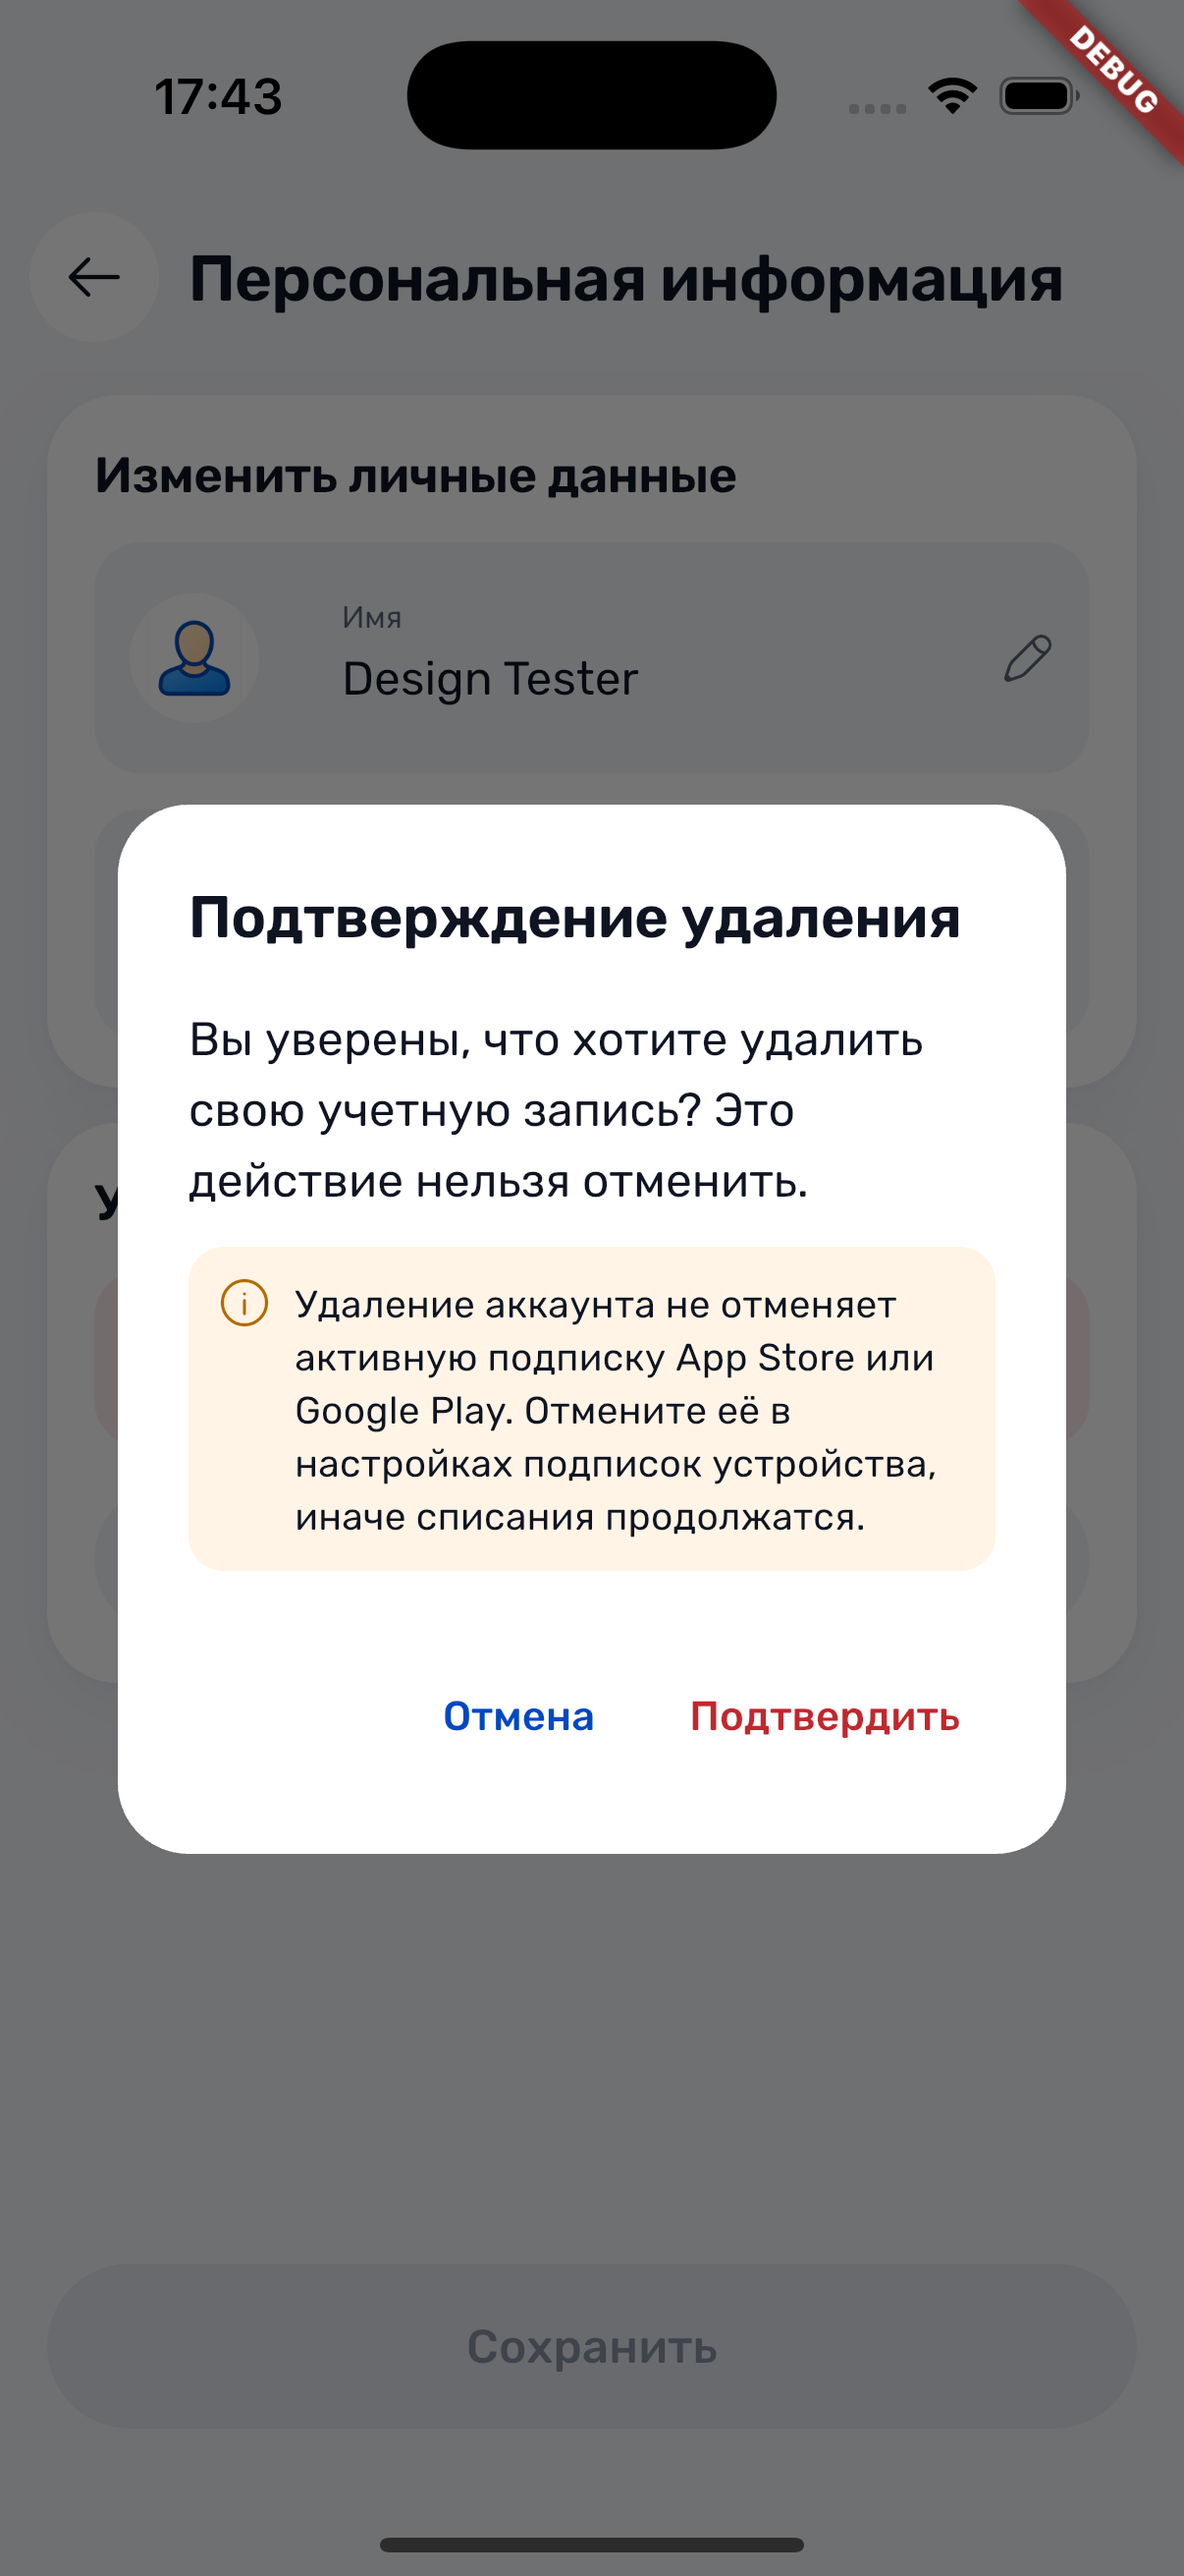
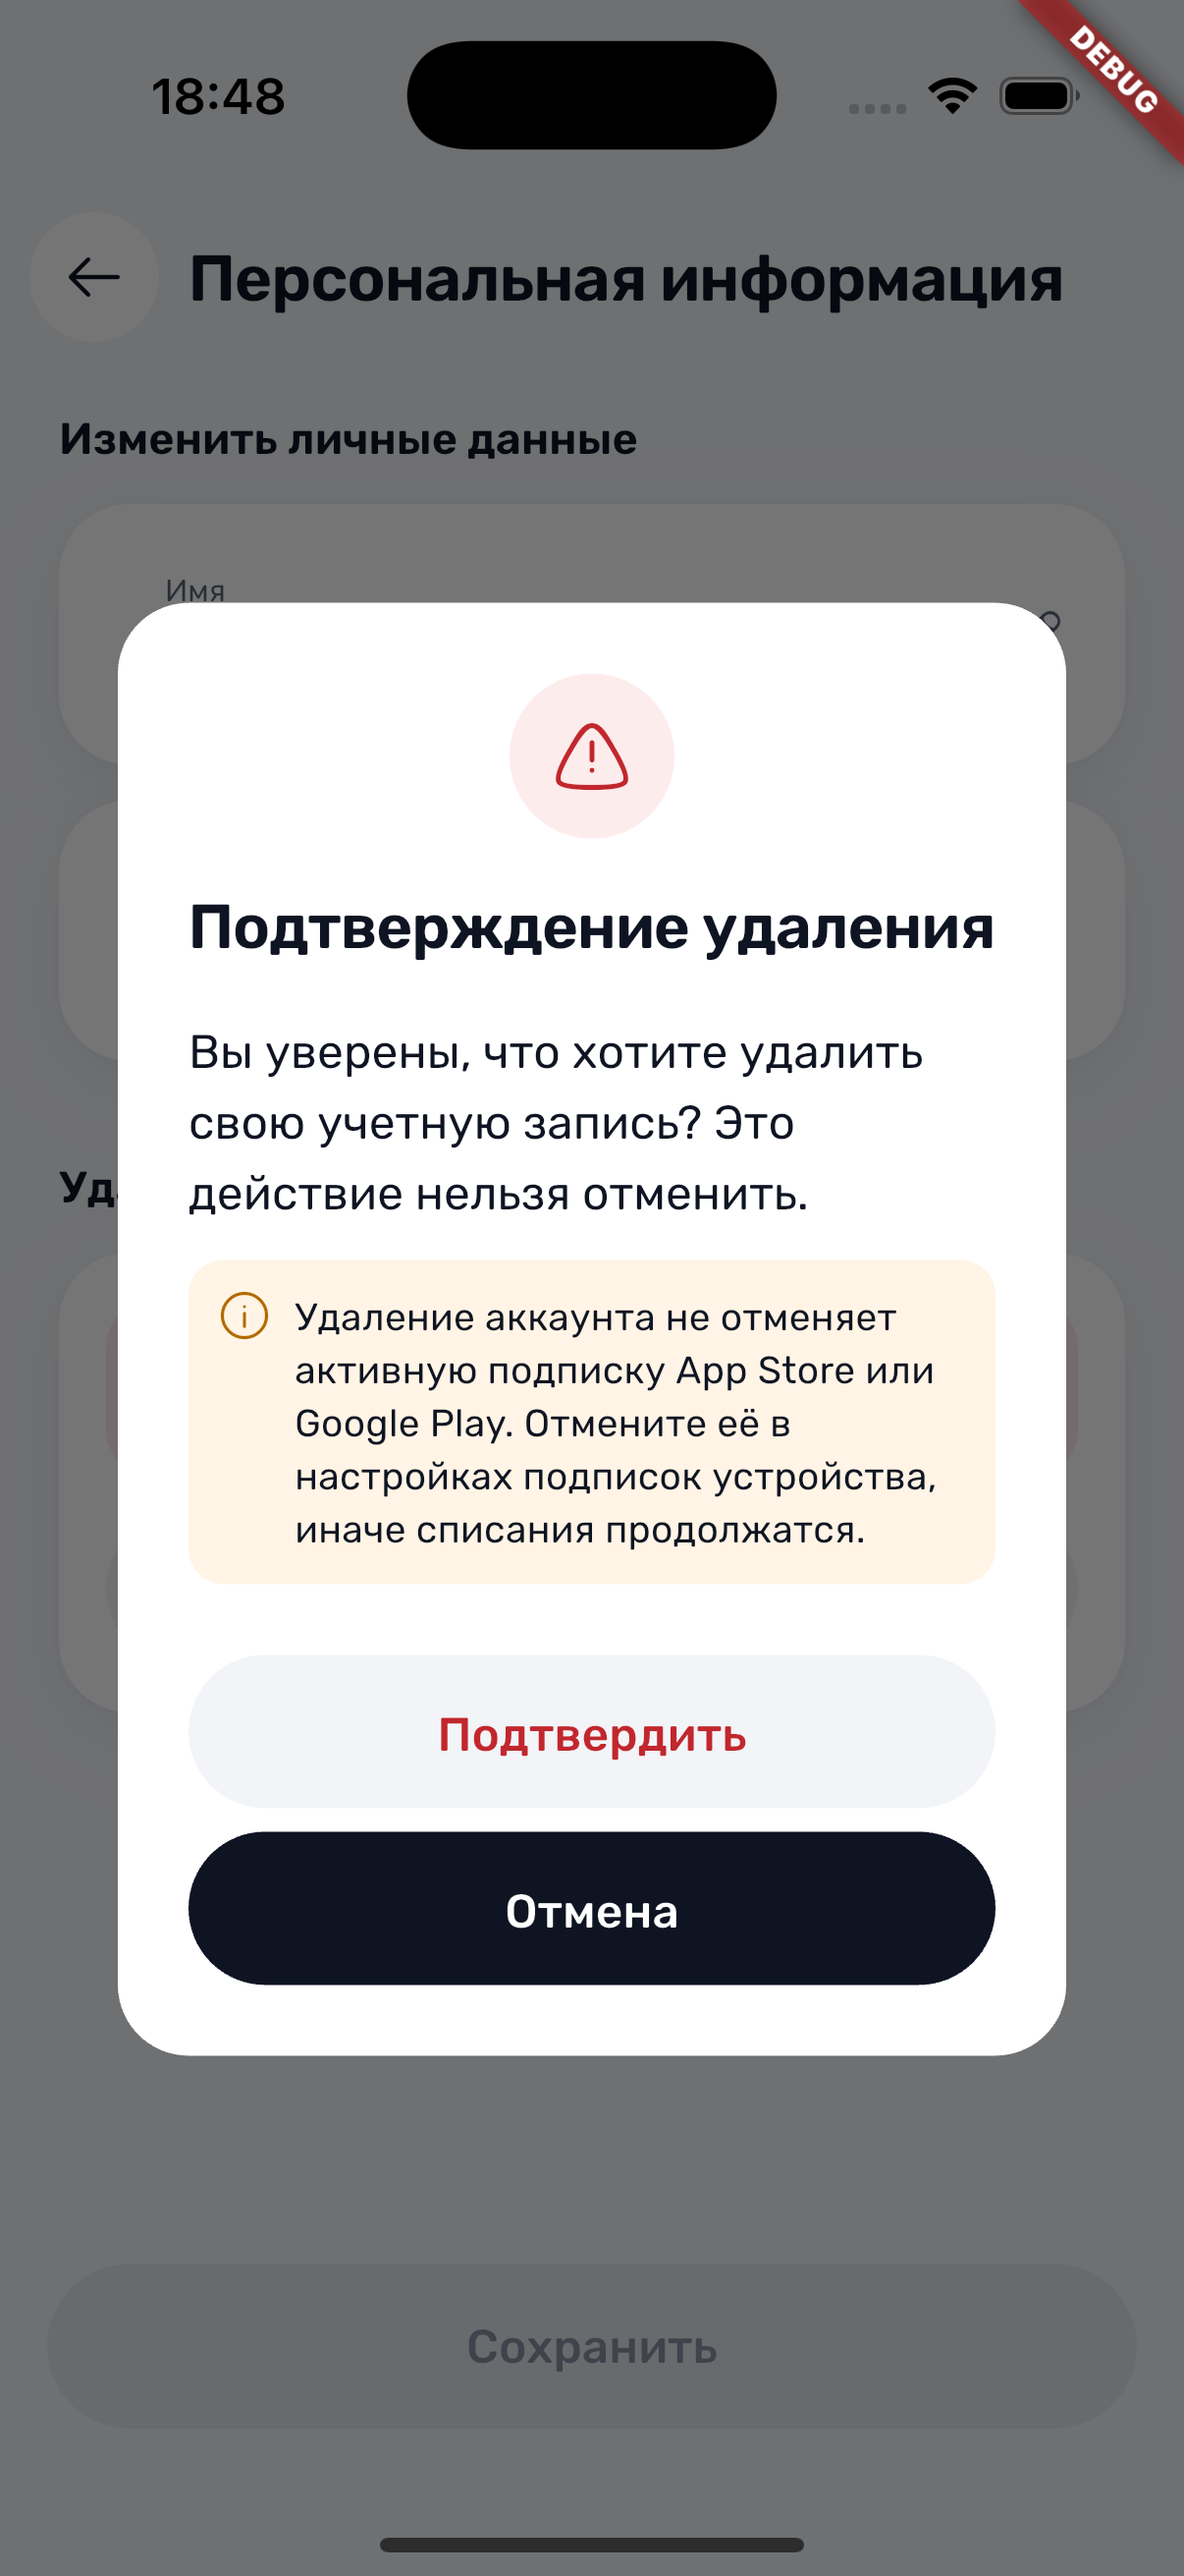
design: delete-account dialog in the Bento look
- A red disc with ⚠ above a one-line title (scales down, no wrap), the
  body, and the store-subscription warning (risk #14) unchanged.
- Two full-width pills stacked: «Подтвердить» a field pill with a red
  label, «Отмена» the dark ink pill — the safe way out is the strong one.
- Both onPressed handlers unchanged; the delete flow is byte-identical.

Analyzer: 0 errors, 158 warnings (none new). Tests: 180 pass.

diff --git a/lib/screens/personal_info_screen.dart b/lib/screens/personal_info_screen.dart
@@ -499,7 +499,39 @@ class _PersonalInfoScreenState extends State<PersonalInfoScreen> {
     showDialog(
       context: context,
       builder: (context) => AlertDialog(
-        title: Text(_translate('delete_confirmation_title', languageProvider)),
+        // Bento (2026-09-26): a red disc says "irreversible" before the text
+        // does; the actions are two full-width pills — the destructive one a
+        // field pill with a red label, the safe way out the dark ink pill.
+        icon: Container(
+          width: 56,
+          height: 56,
+          decoration: const BoxDecoration(
+            color: AppColors.stopSurface,
+            shape: BoxShape.circle,
+          ),
+          alignment: Alignment.center,
+          child: const Icon(SolarIcons.dangerTriangleLinear, color: AppColors.stop, size: 28),
+        ),
+        // One line; a long translation shrinks rather than wraps.
+        title: FittedBox(
+          fit: BoxFit.scaleDown,
+          child: Text(
+          _translate('delete_confirmation_title', languageProvider),
+          maxLines: 1,
+          style: AppTypography.title.copyWith(
+            fontSize: 22,
+            height: 28 / 22,
+            color: AppColors.ink,
+            fontVariations: const [FontVariation('wght', 600)],
+          ),
+        ),
+        ),
+        actionsPadding: const EdgeInsets.fromLTRB(
+          AppSpacing.x6,
+          0,
+          AppSpacing.x6,
+          AppSpacing.x6,
+        ),
         // Risk #14 — deleting the account does NOT cancel an App Store or
         // Google Play subscription; only the store can do that. Saying nothing
         // meant people kept being charged for an account that no longer
@@ -540,13 +572,20 @@ class _PersonalInfoScreenState extends State<PersonalInfoScreen> {
           ],
         ),
         actions: [
+          Column(
+            crossAxisAlignment: CrossAxisAlignment.stretch,
+            children: [
           TextButton(
-            onPressed: () {
-              Navigator.pop(context); // Close dialog
-            },
-            child: Text(_translate('cancel', languageProvider)),
-          ),
-          TextButton(
+            style: TextButton.styleFrom(
+              backgroundColor: AppColors.field,
+              foregroundColor: AppColors.stop,
+              minimumSize: const Size.fromHeight(52),
+              shape: const StadiumBorder(),
+              textStyle: AppTypography.label.copyWith(
+                fontSize: 16,
+                fontVariations: const [FontVariation('wght', 500)],
+              ),
+            ),
             onPressed: () async {
               Navigator.pop(context); // Close dialog
               
@@ -595,8 +634,26 @@ class _PersonalInfoScreenState extends State<PersonalInfoScreen> {
             },
             child: Text(
               _translate('confirm', languageProvider),
-              style: TextStyle(color: AppColors.stop),
             ),
+          ),
+          const SizedBox(height: AppSpacing.x2),
+          FilledButton(
+            style: FilledButton.styleFrom(
+              backgroundColor: AppColors.ink,
+              foregroundColor: AppColors.onSignal,
+              minimumSize: const Size.fromHeight(52),
+              shape: const StadiumBorder(),
+              textStyle: AppTypography.label.copyWith(
+                fontSize: 16,
+                fontVariations: const [FontVariation('wght', 500)],
+              ),
+            ),
+            onPressed: () {
+              Navigator.pop(context); // Close dialog
+            },
+            child: Text(_translate('cancel', languageProvider)),
+          ),
+            ],
           ),
         ],
       ),
